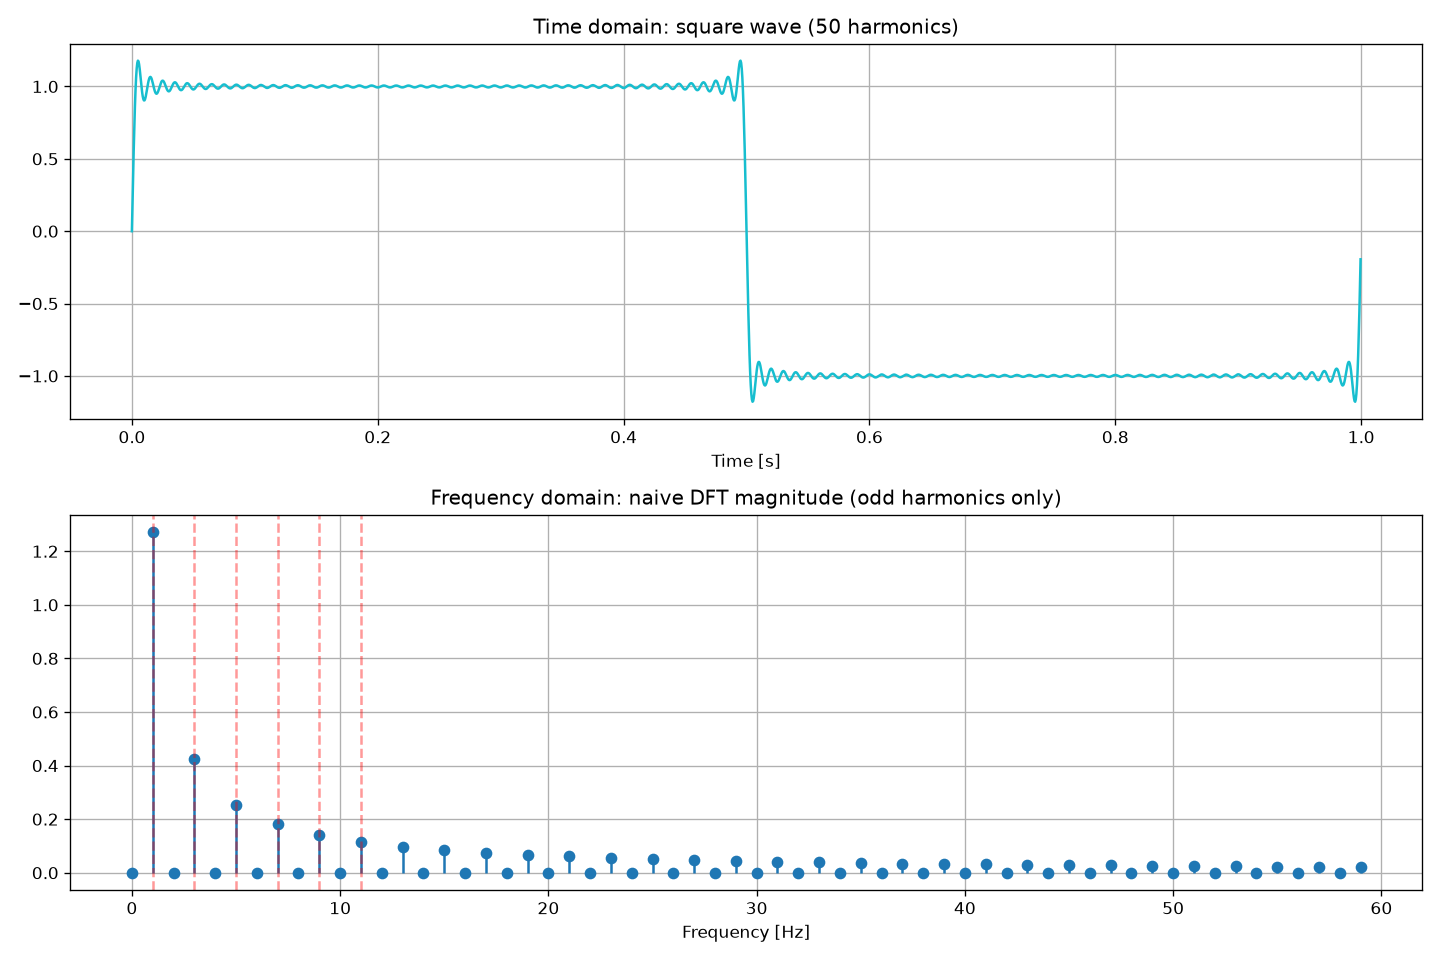
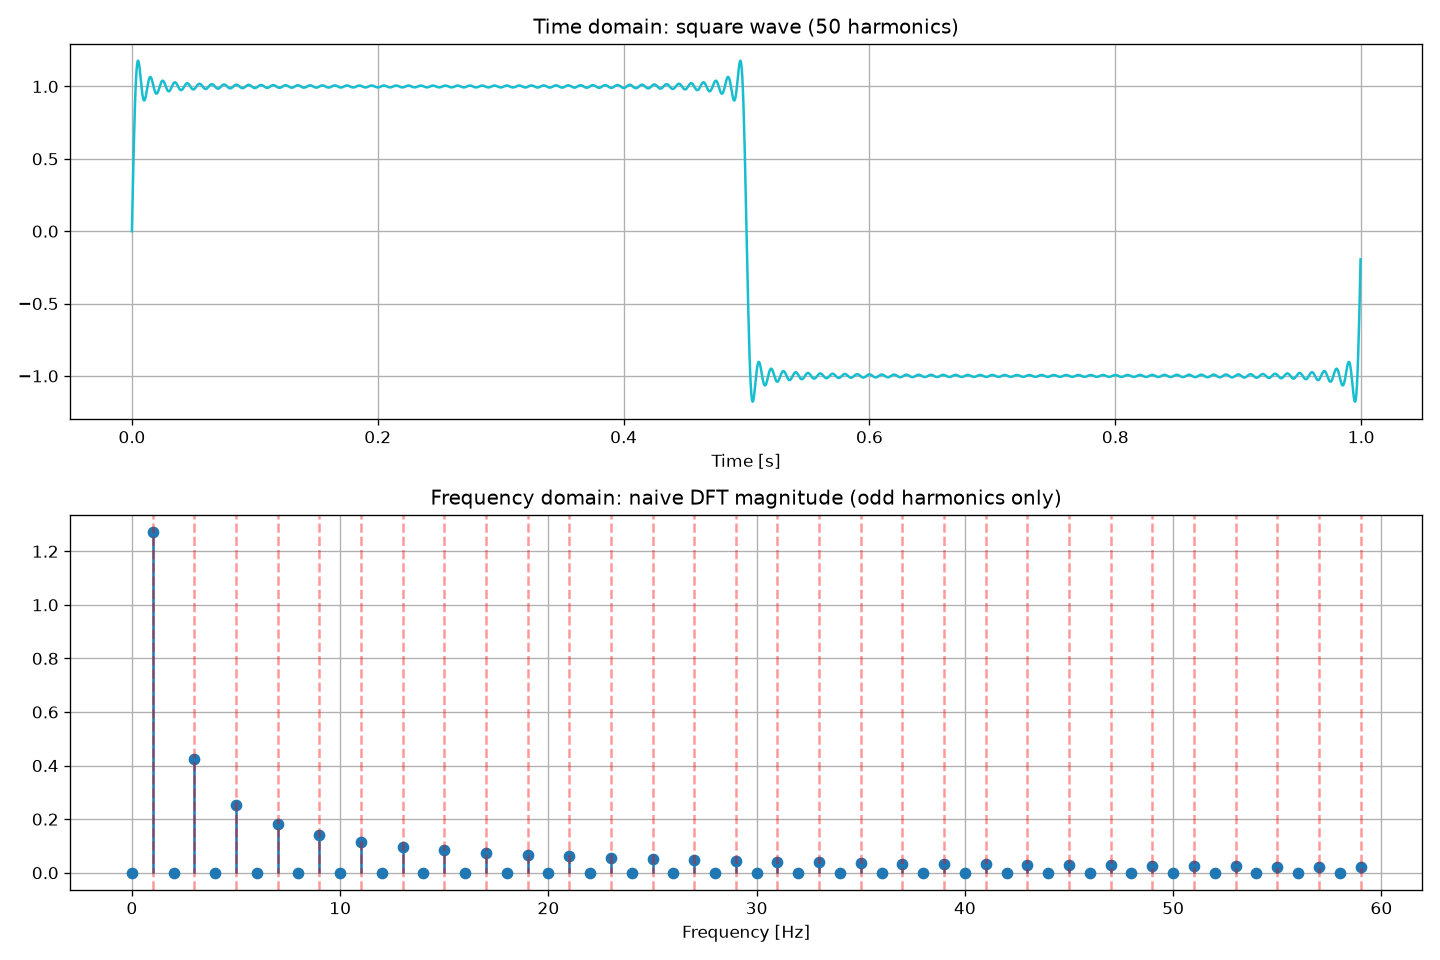
Part 1: answer the spectrum-comparison question, and back the timing table with a log
The task sheet asks two things Part 1 did not answer with an artefact:

  "compare the frequency components obtained from the DFT with those originally
   used to construct the square wave. Do you notice any differences, and if so,
   why might they occur?"

compare_components() now prints the measured single-sided amplitude against the
analytic 4/(n*pi) coefficient that square_wave_fourier actually used, plus the two
places where the spectrum is empty and why: the even bins (half-wave symmetry) and
everything above n=99 (only 50 harmonics were synthesised — the real difference
between the reconstruction and a true square wave). The odd-harmonic markers in
dft_spectrum.png ran to 11 Hz while the axis ran to 59 Hz; they now cover the whole
plotted range.

The committed dft_timing.png held only N=512 and 2048 on MPS, while the README
quoted N=1024/2048/4096 labelled "(GPU)" — 8 of the 12 numbers had no artefact
behind them. The sweep was re-run over all five sizes and its console output kept
at part1_dft/outputs/part1_run.log, so the table, the figure and the log now come
from one invocation. Numbers, the device label and the derived claims are updated
across README.md, DEMO_PREP.md and docs/demo_handbook.html. The re-run also showed
the ranking inverts at N=256 — the GPU naive DFT is the slowest of the four there —
which is a better answer to "change the size of the data" than the old table gave.
[…]

diff --git a/docs/demo_handbook.html b/docs/demo_handbook.html
@@ -383,12 +383,12 @@ def sync(device: torch.device) -&gt; None:
 
 
   <div class="tw"><table>
-    <thead><tr><th>实现</th><th class="num">N=1024</th><th class="num">N=2048</th><th class="num">N=4096</th><th>复杂度</th></tr></thead>
+    <thead><tr><th>实现</th><th class="num">N=256</th><th class="num">N=512</th><th class="num">N=1024</th><th class="num">N=2048</th><th class="num">N=4096</th><th>复杂度</th></tr></thead>
     <tbody>
-      <tr><td>NumPy 朴素 DFT</td><td class="num">0.009265</td><td class="num">0.037120</td><td class="num">0.146261</td><td>O(N²)</td></tr>
-      <tr><td>PyTorch 朴素 DFT（GPU）</td><td class="num">0.002785</td><td class="num">0.006693</td><td class="num">0.010211</td><td>O(N²)</td></tr>
-      <tr><td>NumPy FFT</td><td class="num win">0.000006</td><td class="num win">0.000011</td><td class="num win">0.000019</td><td>O(N log N)</td></tr>
-      <tr><td>PyTorch FFT（GPU）</td><td class="num">0.000269</td><td class="num">0.000236</td><td class="num">0.000374</td><td>O(N log N)</td></tr>
+      <tr><td>NumPy 朴素 DFT</td><td class="num">0.000572</td><td class="num">0.002238</td><td class="num">0.009335</td><td class="num">0.037196</td><td class="num">0.145681</td><td>O(N²)</td></tr>
+      <tr><td>PyTorch 朴素 DFT（MPS）</td><td class="num">0.000587</td><td class="num">0.000835</td><td class="num">0.001576</td><td class="num">0.006524</td><td class="num">0.010210</td><td>O(N²)</td></tr>
+      <tr><td>NumPy FFT</td><td class="num win">0.000003</td><td class="num win">0.000004</td><td class="num win">0.000006</td><td class="num win">0.000011</td><td class="num win">0.000018</td><td>O(N log N)</td></tr>
+      <tr><td>PyTorch FFT（MPS）</td><td class="num">0.000418</td><td class="num">0.000206</td><td class="num">0.000212</td><td class="num">0.000224</td><td class="num">0.000175</td><td>O(N log N)</td></tr>
     </tbody>
   </table></div>
 
@@ -398,9 +398,10 @@ def sync(device: torch.device) -&gt; None:
     <div class="q-tag">必答</div>
     <p class="q-ask">为什么最快的方法最快？</p>
     <ol>
-      <li><b>FFT 快是因为算法，不是硬件。</b>看朴素 DFT 那一行：N 每翻一倍，耗时约 ×4（0.0093 → 0.037 → 0.146），正是 O(N²) 的特征；FFT 增长不到 2 倍。FFT 靠分治 —— 把 N 点 DFT 递归拆成两个 N/2 点，复用旋转因子的对称性 <span class="mono">W<sub>N</sub><sup>k+N/2</sup> = −W<sub>N</sub><sup>k</sup></span>，把 N² 次复数乘降到 N log N 次。</li>
+      <li><b>FFT 快是因为算法，不是硬件。</b>看朴素 DFT 那一行：N 每翻一倍，耗时约 ×4（0.009335 → 0.037196 → 0.145681，比值 3.99 和 3.92），正是 O(N²) 的特征；FFT 增长不到 2 倍。FFT 靠分治 —— 把 N 点 DFT 递归拆成两个 N/2 点，复用旋转因子的对称性 <span class="mono">W<sub>N</sub><sup>k+N/2</sup> = −W<sub>N</sub><sup>k</sup></span>，把 N² 次复数乘降到 N log N 次。</li>
       <li><b>GPU 让朴素 DFT 快一个数量级，但改不了复杂度。</b>N=4096 时 GPU 版比 CPU 版快 14 倍，因为 N² 次乘加被摊到数千核心上；但它仍是 O(N²)，N 再翻几倍照样输给 CPU 上的 FFT。<b>并行度只能改善常数因子，不能改善复杂度。</b></li>
-      <li><b>GPU 的 FFT 反而不如 NumPy 的</b>，因为这个规模下每次 kernel 启动的固定开销（约 0.25 ms）已超过计算本身。注意 Torch FFT 那一行从 N=1024 到 4096 几乎不变 —— 测的全是启动开销。</li>
+      <li><b>GPU 的 FFT 反而不如 NumPy 的</b>，因为这个规模下每次 kernel 启动的固定开销（约 0.2 ms 的下限）已超过计算本身。注意 Torch FFT 那一行从 N=512 到 4096 几乎不变 —— 测的全是启动开销。</li>
+      <li><b>N 小的时候排序会翻转。</b>N=256 时 GPU 上的朴素 DFT 是四者中<b>最慢</b>的（0.59 ms，甚至输给 CPU 版的 0.57 ms）—— 搬运和启动的开销比它要加速的 256² 次运算还贵，要到 N=512 才反超。这正是任务书让你「改变数据规模」的用意。笔记本上单个数字会浮动 10–30%，稳定的是<b>排序</b>和<b>斜率</b>。</li>
     </ol>
   </div>
 

diff --git a/part1_dft/dft.py b/part1_dft/dft.py
@@ -231,7 +231,7 @@ def plot_spectrum(t, signal, dft_result, n_samples, path):
     ax1.grid(True)
 
     ax2.stem(xf[:60], magnitude[:60], basefmt=" ")
-    for k in range(1, 12, 2):        # mark where the first few odd harmonics sit
+    for k in range(1, 60, 2):        # mark every odd harmonic inside the plotted range
         ax2.axvline(k * F0, color="r", ls="--", alpha=0.4)
     ax2.set_title("Frequency domain: naive DFT magnitude (odd harmonics only)")
     ax2.set_xlabel("Frequency [Hz]")
@@ -240,6 +240,34 @@ def plot_spectrum(t, signal, dft_result, n_samples, path):
     fig.tight_layout()
     fig.savefig(path, dpi=120)
     print("Saved:", path)
+
+
+def compare_components(dft_result, n_samples, n_harmonics, top=6):
+    """Answer the task sheet's "compare the frequency components obtained from the DFT with
+    those originally used to construct the square wave. Do you notice any differences?"
+
+    square_wave_fourier gives harmonic n the coefficient 4/(n*pi), so the analytic amplitudes
+    are known exactly and the DFT can be checked against them rather than against another FFT.
+    With T = 1 s the frequency resolution is 1 Hz, so harmonic n lands in bin n exactly.
+    """
+    magnitude = 2.0 / n_samples * np.abs(dft_result)
+    print("\n--- DFT components vs the coefficients used to build the wave ---")
+    print(f"{'harmonic n':>11}{'measured':>13}{'4/(n*pi)':>13}{'rel. error':>13}")
+    for n in range(1, 2 * top, 2):
+        ideal = 4.0 / (np.pi * n)
+        print(f"{n:>11}{magnitude[n]:>13.6f}{ideal:>13.6f}"
+              f"{abs(magnitude[n] - ideal) / ideal:>13.2e}")
+
+    # The two interesting places where the spectrum is *empty*, and why.
+    last = 2 * n_harmonics - 1                    # highest harmonic actually synthesised
+    print(f"\neven bin n=2            : {magnitude[2]:.3e}  (zero: a square wave is half-wave "
+          f"symmetric, so even harmonics cancel)")
+    print(f"first missing odd n={last + 2:<4}: {magnitude[last + 2]:.3e}  (zero: only {n_harmonics} "
+          f"harmonics were synthesised, so there is nothing above n={last};")
+    print(f"{'':26}a true square wave would carry energy here for ever)")
+    print("Amplitudes agree to machine precision because T=1 s and f0=1 Hz put every harmonic\n"
+          "exactly on a bin centre, so there is no spectral leakage. Move f0 off an integer and\n"
+          "each line smears into its neighbours instead.")
 
 
 def plot_timings(sizes, results, path):
@@ -302,6 +330,7 @@ def main():
           f"(unavoidable when accumulating N terms in single precision, still within the "
           f"~1e-7*sqrt(N) float32 range)")
 
+    compare_components(dft_np, N_DEFAULT, 50)
     plot_spectrum(t, sig_np, dft_np, N_DEFAULT, OUTDIR / "dft_spectrum.png")
 
     # ---- (c) how slow the double-loop version really is ----

diff --git a/part3_cnn/cnn_lfw.py b/part3_cnn/cnn_lfw.py
@@ -110,7 +110,15 @@ def main():
     y_pred, y_true = evaluate(model, test_loader)
     print("\n--- CNN on LFW ---")
     print(classification_report(y_true, y_pred, target_names=target_names))
-    # TODO: compare F1 against the Part 2 random forest, and explain in the demo why the CNN wins
+    # The task sheet asks for a CNN that "should hopefully out perform" the Part 2 eigenfaces
+    # pipeline, so the comparison is printed here rather than left to the reader. The Part 2
+    # figures come from part2_eigenfaces/eigenfaces.py on the same split and the same seed.
+    accuracy = (y_pred == y_true).mean()
+    print("--- accuracy against the Part 2 pipeline, same split ---")
+    print(f"{'Part 2 majority-class baseline':<34}{0.4130:>10.4f}")
+    print(f"{'Part 2 PCA + random forest':<34}{0.5776:>10.4f}")
+    print(f"{'Part 2 with class_weight=balanced':<34}{0.7298:>10.4f}")
+    print(f"{'Part 3.1 CNN (this file)':<34}{accuracy:>10.4f}")
 
 
 if __name__ == "__main__":

diff --git a/README.md b/README.md
@@ -12,7 +12,7 @@ This repository contains the implementations of the four parts of COMP3710 Lab 2
 ## Repository layout
 
 ```
-comp3710/
+comp3710-demo2/
 ├── data/                       # Datasets (not in git), see "Data" below
 ├── docs/                       # Task sheet and marking rubric PDFs
 ├── part1_dft/                  # Part 1 — Discrete Fourier Transform (1 mark)
@@ -144,33 +144,75 @@ Every number here was measured; the commands and logs are in the per-directory R
 | Part 4 Task 2 — UNet segmentation | — | test **mean DSC 0.9774**, all four classes > 0.9 | Done |
 | Part 4 Task 3 — GAN | — | test diversity **88 %** of real data, no mode collapse | Done |
 
-### Part 1 — runtime of the four DFT implementations (seconds, best of 3 runs)
+### Part 1 — runtime of the four DFT implementations
 
-| Implementation | N=1024 | N=2048 | N=4096 | Complexity |
-|---|---|---|---|---|
-| NumPy naive DFT (matrix form) | 0.009265 | 0.037120 | 0.146261 | O(N²) |
-| PyTorch naive DFT (GPU) | 0.002785 | 0.006693 | 0.010211 | O(N²) |
-| NumPy FFT | 0.000006 | 0.000011 | 0.000019 | O(N log N) |
-| PyTorch FFT (GPU) | 0.000269 | 0.000236 | 0.000374 | O(N log N) |
+Measured on Apple MPS (local machine), best of 3 runs per size. The raw console output of this
+exact run is kept at [`part1_dft/outputs/part1_run.log`](part1_dft/outputs/part1_run.log), and
+[`part1_dft/outputs/dft_timing.png`](part1_dft/outputs/dft_timing.png) plots the same data —
+the table, the figure and the log all come from one invocation of
+`python part1_dft/dft.py --sizes 256 512 1024 2048 4096`.
 
-Ranking (fast → slow): **NumPy FFT < PyTorch FFT(GPU) < PyTorch naive DFT(GPU) < NumPy naive DFT**.
+| Implementation | N=256 | N=512 | N=1024 | N=2048 | N=4096 | Complexity |
+|---|---|---|---|---|---|---|
+| NumPy naive DFT (matrix form) | 0.000572 | 0.002238 | 0.009335 | 0.037196 | 0.145681 | O(N²) |
+| PyTorch naive DFT (MPS) | 0.000587 | 0.000835 | 0.001576 | 0.006524 | 0.010210 | O(N²) |
+| NumPy FFT | 0.000003 | 0.000004 | 0.000006 | 0.000011 | 0.000018 | O(N log N) |
+| PyTorch FFT (MPS) | 0.000418 | 0.000206 | 0.000212 | 0.000224 | 0.000175 | O(N log N) |
 
-Three points worth drawing out:
+Ranking at N=4096 (fast → slow): **NumPy FFT < PyTorch FFT(MPS) < PyTorch naive DFT(MPS) <
+NumPy naive DFT**. The script prints this ranking line for every N, because the order is not the
+same at every size — see point 4.
 
-1. **The FFT wins because of the algorithm, not the hardware**. Every doubling of N multiplies the
-   naive DFT runtime by roughly 4 (0.0093 → 0.037 → 0.146, exactly O(N²)), while the FFT grows by
-   less than 2. No number of parallel cores makes up for a gap in asymptotic complexity.
-2. **The GPU buys the naive DFT an order of magnitude but not a better complexity**. At N=4096 the
-   GPU version is 14x faster than the CPU one (0.0102 vs 0.1463) because the N² multiply-adds are
-   spread across thousands of cores; it is still O(N²), and a few more doublings of N will lose to
-   an FFT running on the CPU.
-3. **The GPU FFT is in fact slower than NumPy's**, because at this size the fixed cost of each
-   kernel launch (about 0.25 ms) already exceeds the computation itself. A GPU only pays off once
-   there is enough work to amortise that.
+Four points worth drawing out:
 
-One more note: at the same O(N²), NumPy's matrix form is about 25x faster than the textbook double
-Python loop (0.0023 s vs 0.0581 s at N=512) — **complexity and constant factors are two different
+1. **The FFT wins because of the algorithm, not the hardware.** Every doubling of N multiplies the
+   naive DFT runtime by almost exactly 4 (0.009335 → 0.037196 → 0.145681, ratios 3.99 and 3.92 —
+   textbook O(N²)), while the FFT grows by less than 2. No number of parallel cores makes up for a
+   gap in asymptotic complexity.
+2. **The GPU buys the naive DFT an order of magnitude but not a better complexity.** At N=4096 the
+   GPU version is 14x faster than the CPU one (0.010210 vs 0.145681) because the N² multiply-adds
+   are spread across many cores; it is still O(N²), and a few more doublings of N will lose to an
+   FFT running on the CPU.
+3. **The GPU FFT is in fact slower than NumPy's** at every size measured, because the fixed cost of
+   a kernel launch (a floor of about 0.2 ms, visible in the almost flat N=512..4096 row) already
+   exceeds the computation itself. A GPU only pays off once there is enough work to amortise that.
+4. **At small N the ranking inverts.** At N=256 the naive DFT *on the GPU* is the slowest of all
+   four (0.59 ms, behind even the CPU version at 0.57 ms): the transfer and launch overhead costs
+   more than the whole 256² of arithmetic it was meant to accelerate. The GPU only overtakes the
+   CPU from N=512 on. The asymptotics take over only once N is large enough for the work to
+   dominate — which is exactly what the task sheet's "change the size of the data" step exposes.
+
+A caveat worth stating at the demo: these are laptop measurements, and individual entries move by
+10–30 % between runs. What is stable, and what the argument rests on, is the *ordering* and the
+*slopes* — not the third decimal place of any one number.
+
+One more note: at the same O(N²), NumPy's matrix form is about 24x faster than the textbook double
+Python loop (0.002400 s vs 0.0585 s at N=512) — **complexity and constant factors are two different
 things**.
+
+### Part 1 — DFT components vs the coefficients used to build the wave
+
+`square_wave_fourier` gives harmonic n the coefficient 4/(nπ), so the DFT can be checked against
+the values actually used to synthesise the signal rather than against another FFT implementation:
+
+| harmonic n | measured | 4/(nπ) | rel. error |
+|---|---|---|---|
+| 1 | 1.273240 | 1.273240 | 0.00e+00 |
+| 3 | 0.424413 | 0.424413 | 1.31e-16 |
+| 5 | 0.254648 | 0.254648 | 4.36e-16 |
+| 7 | 0.181891 | 0.181891 | 4.58e-16 |
+| 9 | 0.141471 | 0.141471 | 5.89e-16 |
+| 11 | 0.115749 | 0.115749 | 1.32e-15 |
+
+They agree to machine precision, and the two *empty* places in the spectrum are the interesting part:
+
+- **even bin n=2 → 5.7e-18.** A square wave is half-wave symmetric, so the even harmonics cancel.
+- **first missing odd bin n=101 → 8.8e-17.** Only 50 harmonics were synthesised, so there is nothing
+  above n=99. A true square wave would carry energy there for ever — this is precisely the
+  difference between the reconstruction and the thing it approximates.
+
+Agreement is this exact only because T=1 s and f0=1 Hz place every harmonic on a bin centre, so
+there is no spectral leakage. Shift f0 off an integer and each line smears into its neighbours.
 
 ### Outstanding
 

diff --git a/DEMO_PREP.md b/DEMO_PREP.md
@@ -102,27 +102,35 @@
 
 ### 必答：为什么最快的方法最快？
 
-四种实现在 N=4096 时的排序（秒）：
+四种实现的实测耗时（秒，三次取最小）。本机 Apple MPS，原始输出见
+`part1_dft/outputs/part1_run.log`，图见 `part1_dft/outputs/dft_timing.png` —— 表、图、日志出自同一次运行：
 
-| 实现 | N=1024 | N=2048 | N=4096 | 复杂度 |
-|---|---|---|---|---|
-| NumPy 朴素 DFT | 0.009265 | 0.037120 | 0.146261 | O(N²) |
-| PyTorch 朴素 DFT（GPU） | 0.002785 | 0.006693 | 0.010211 | O(N²) |
-| NumPy FFT | 0.000006 | 0.000011 | 0.000019 | O(N log N) |
-| PyTorch FFT（GPU） | 0.000269 | 0.000236 | 0.000374 | O(N log N) |
+| 实现 | N=256 | N=512 | N=1024 | N=2048 | N=4096 | 复杂度 |
+|---|---|---|---|---|---|---|
+| NumPy 朴素 DFT | 0.000572 | 0.002238 | 0.009335 | 0.037196 | 0.145681 | O(N²) |
+| PyTorch 朴素 DFT（MPS） | 0.000587 | 0.000835 | 0.001576 | 0.006524 | 0.010210 | O(N²) |
+| NumPy FFT | 0.000003 | 0.000004 | 0.000006 | 0.000011 | 0.000018 | O(N log N) |
+| PyTorch FFT（MPS） | 0.000418 | 0.000206 | 0.000212 | 0.000224 | 0.000175 | O(N log N) |
 
 **答法**（三层，逐层深入）：
 
 1. **FFT 快是因为算法，不是硬件**。看朴素 DFT 那一行：N 每翻一倍，耗时约 ×4
-   （0.0093 → 0.037 → 0.146），正是 O(N²) 的特征；FFT 增长不到 2 倍。
+   （0.009335 → 0.037196 → 0.145681，比值 3.99 和 3.92），正是 O(N²) 的特征；FFT 增长不到 2 倍。
    FFT 靠的是分治——把 N 点 DFT 递归拆成两个 N/2 点 DFT，复用旋转因子的对称性
    （W_N^(k+N/2) = −W_N^k），把 N² 次复数乘降到 N log N 次。
 2. **GPU 让朴素 DFT 快一个数量级，但改不了复杂度**。N=4096 时 GPU 版比 CPU 版快 14 倍，
    因为 N² 次乘加被摊到数千核心上并行；但它仍是 O(N²)，N 再翻几倍照样输给 CPU 上的 FFT。
    **并行度只能改善常数因子，不能改善复杂度。**
 3. **GPU 的 FFT 反而不如 NumPy 的**，因为这个规模下每次 kernel 启动的固定开销
-   （约 0.25 ms）已经超过计算本身。GPU 要在计算量足够大时才划算——
+   （约 0.2 ms 的下限）已经超过计算本身。GPU 要在计算量足够大时才划算——
    注意 Torch FFT 那一行从 N=1024 到 4096 几乎不变，说明测的全是启动开销。
+4. **N 小的时候排序会翻转**。N=256 时 GPU 上的朴素 DFT 是四者中**最慢**的（0.59 ms，
+   甚至输给 CPU 版的 0.57 ms）—— 数据搬运和 kernel 启动的开销，比它要加速的那 256² 次
+   运算本身还贵。要到 N=512 它才反超 CPU。渐进复杂度得等 N 大到运算量占主导才显现，
+   这正是任务书让你「改变数据规模」的用意。
+
+**补一句诚实的话**：这是笔记本上的测量，单个数字在不同次运行之间会浮动 10–30%。
+稳定的、也是论证真正依赖的，是**排序**和**斜率**，不是某个数的第三位小数。
 
 ### 可能追问
 
